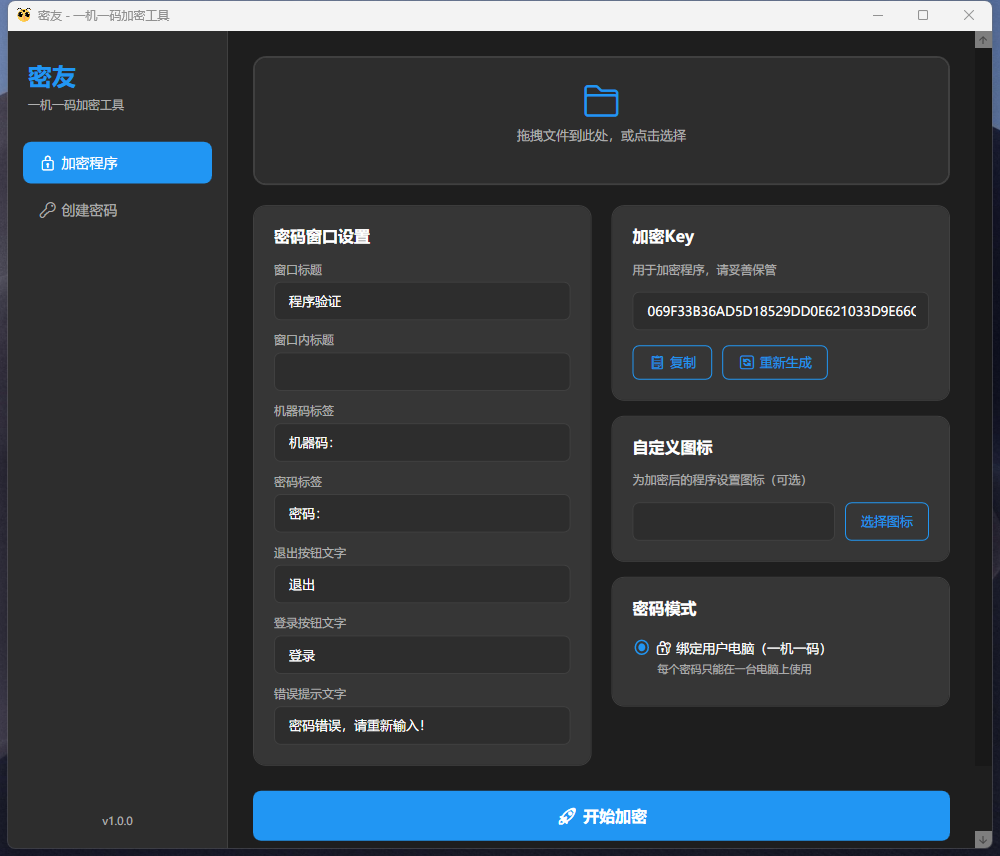
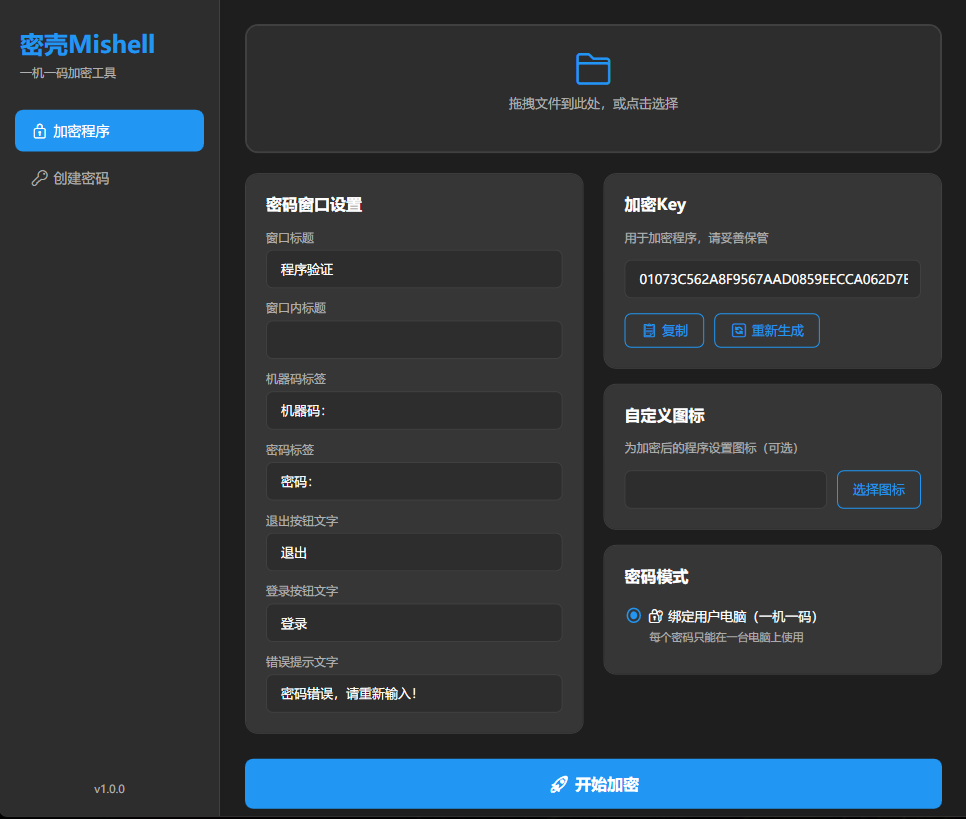
deploy: f9996718c6141f9963f595d4dfaea919b6463a11

diff --git a/miyou/index.html b/miyou/index.html
@@ -1,14 +1,14 @@
-<!DOCTYPE html><html lang="zh-CN" data-astro-cid-o4yhrxpa> <head><!-- Global Metadata --><meta charset="utf-8"><meta name="viewport" content="width=device-width,initial-scale=1"><link rel="icon" type="image/svg+xml" href="/favicon.svg"><link rel="icon" href="/favicon.ico"><link rel="sitemap" href="/sitemap-index.xml"><link rel="alternate" type="application/rss+xml" title="丘小天的炒股生活" href="https://jonyau89.github.io/rss.xml"><meta name="generator" content="Astro v5.17.1"><!-- Font preloads --><link rel="preload" href="/fonts/atkinson-regular.woff" as="font" type="font/woff" crossorigin><link rel="preload" href="/fonts/atkinson-bold.woff" as="font" type="font/woff" crossorigin><!-- Canonical URL --><link rel="canonical" href="https://jonyau89.github.io/qiuxiaotian/miyou/"><!-- Primary Meta Tags --><title>密友 - 程序加密锁 | 为您的软件提供军工级保护</title><meta name="title" content="密友 - 程序加密锁 | 为您的软件提供军工级保护"><meta name="description" content="密友是一款专业的程序加密锁软件，采用硬件绑定技术，一机一码，不受系统更新影响，让您的软件安全无忧。"><!-- Open Graph / Facebook --><meta property="og:type" content="website"><meta property="og:url" content="https://jonyau89.github.io/qiuxiaotian/miyou/"><meta property="og:title" content="密友 - 程序加密锁 | 为您的软件提供军工级保护"><meta property="og:description" content="密友是一款专业的程序加密锁软件，采用硬件绑定技术，一机一码，不受系统更新影响，让您的软件安全无忧。"><meta property="og:image" content="https://jonyau89.github.io/qiuxiaotian/_astro/blog-placeholder-1.Bx0Zcyzv.jpg"><!-- Twitter --><meta property="twitter:card" content="summary_large_image"><meta property="twitter:url" content="https://jonyau89.github.io/qiuxiaotian/miyou/"><meta property="twitter:title" content="密友 - 程序加密锁 | 为您的软件提供军工级保护"><meta property="twitter:description" content="密友是一款专业的程序加密锁软件，采用硬件绑定技术，一机一码，不受系统更新影响，让您的软件安全无忧。"><meta property="twitter:image" content="https://jonyau89.github.io/qiuxiaotian/_astro/blog-placeholder-1.Bx0Zcyzv.jpg"><!-- 百度统计 --><script type="module">(function(){var e=document.createElement("script");e.src="https://hm.baidu.com/hm.js?6bfbccaa79438424195603af62eeee06";var t=document.getElementsByTagName("script")[0];t.parentNode.insertBefore(e,t)})();</script><link rel="stylesheet" href="/qiuxiaotian/_astro/_slug_.D0JwXh8c.css">
-<link rel="stylesheet" href="/qiuxiaotian/_astro/index.ByHazog1.css"></head> <body data-astro-cid-o4yhrxpa> <!-- Header --> <header class="header" data-astro-cid-o4yhrxpa> <div class="header-container" data-astro-cid-o4yhrxpa> <a href="#" class="logo" data-astro-cid-o4yhrxpa> <div class="logo-icon" data-astro-cid-o4yhrxpa>🔒</div> <span data-astro-cid-o4yhrxpa>密友</span> </a> <nav class="nav" data-astro-cid-o4yhrxpa> <a href="#features" data-astro-cid-o4yhrxpa>核心功能</a> <a href="#screenshots" data-astro-cid-o4yhrxpa>软件界面</a> <a href="#how-to-use" data-astro-cid-o4yhrxpa>使用方法</a> <a href="#comparison" data-astro-cid-o4yhrxpa>优势对比</a> <a href="#download" data-astro-cid-o4yhrxpa>下载</a> </nav> <a href="#download" class="header-cta" data-astro-cid-o4yhrxpa>立即下载</a> </div> </header> <!-- Hero Section --> <section class="hero" id="home" data-astro-cid-o4yhrxpa> <div class="hero-bg" data-astro-cid-o4yhrxpa> <div class="gradient-orb orb-1" data-astro-cid-o4yhrxpa></div> <div class="gradient-orb orb-2" data-astro-cid-o4yhrxpa></div> </div> <div class="container" data-astro-cid-o4yhrxpa> <div class="hero-container" data-astro-cid-o4yhrxpa> <div class="hero-content" data-astro-cid-o4yhrxpa> <div class="badge" data-astro-cid-o4yhrxpa> <span data-astro-cid-o4yhrxpa>🔒</span> <span data-astro-cid-o4yhrxpa>专业级程序保护方案</span> </div> <h1 class="hero-title" data-astro-cid-o4yhrxpa> <span class="gradient-text" data-astro-cid-o4yhrxpa>密友</span> <span class="subtitle" data-astro-cid-o4yhrxpa>程序加密锁</span> </h1> <p class="hero-description" data-astro-cid-o4yhrxpa>
+<!DOCTYPE html><html lang="zh-CN" data-astro-cid-o4yhrxpa> <head><!-- Global Metadata --><meta charset="utf-8"><meta name="viewport" content="width=device-width,initial-scale=1"><link rel="icon" type="image/svg+xml" href="/favicon.svg"><link rel="icon" href="/favicon.ico"><link rel="sitemap" href="/sitemap-index.xml"><link rel="alternate" type="application/rss+xml" title="丘小天的炒股生活" href="https://jonyau89.github.io/rss.xml"><meta name="generator" content="Astro v5.17.1"><!-- Font preloads --><link rel="preload" href="/fonts/atkinson-regular.woff" as="font" type="font/woff" crossorigin><link rel="preload" href="/fonts/atkinson-bold.woff" as="font" type="font/woff" crossorigin><!-- Canonical URL --><link rel="canonical" href="https://jonyau89.github.io/qiuxiaotian/miyou/"><!-- Primary Meta Tags --><title>密壳Mishell - 程序加密锁 | 为您的软件提供军工级保护</title><meta name="title" content="密壳Mishell - 程序加密锁 | 为您的软件提供军工级保护"><meta name="description" content="密壳Mishell是一款专业的程序加密锁软件，采用硬件绑定技术，一机一码，不受系统更新影响，让您的软件安全无忧。"><!-- Open Graph / Facebook --><meta property="og:type" content="website"><meta property="og:url" content="https://jonyau89.github.io/qiuxiaotian/miyou/"><meta property="og:title" content="密壳Mishell - 程序加密锁 | 为您的软件提供军工级保护"><meta property="og:description" content="密壳Mishell是一款专业的程序加密锁软件，采用硬件绑定技术，一机一码，不受系统更新影响，让您的软件安全无忧。"><meta property="og:image" content="https://jonyau89.github.io/qiuxiaotian/_astro/blog-placeholder-1.Bx0Zcyzv.jpg"><!-- Twitter --><meta property="twitter:card" content="summary_large_image"><meta property="twitter:url" content="https://jonyau89.github.io/qiuxiaotian/miyou/"><meta property="twitter:title" content="密壳Mishell - 程序加密锁 | 为您的软件提供军工级保护"><meta property="twitter:description" content="密壳Mishell是一款专业的程序加密锁软件，采用硬件绑定技术，一机一码，不受系统更新影响，让您的软件安全无忧。"><meta property="twitter:image" content="https://jonyau89.github.io/qiuxiaotian/_astro/blog-placeholder-1.Bx0Zcyzv.jpg"><!-- 百度统计 --><script type="module">(function(){var e=document.createElement("script");e.src="https://hm.baidu.com/hm.js?6bfbccaa79438424195603af62eeee06";var t=document.getElementsByTagName("script")[0];t.parentNode.insertBefore(e,t)})();</script><link rel="stylesheet" href="/qiuxiaotian/_astro/_slug_.D0JwXh8c.css">
+<link rel="stylesheet" href="/qiuxiaotian/_astro/index.ByHazog1.css"></head> <body data-astro-cid-o4yhrxpa> <!-- Header --> <header class="header" data-astro-cid-o4yhrxpa> <div class="header-container" data-astro-cid-o4yhrxpa> <a href="#" class="logo" data-astro-cid-o4yhrxpa> <div class="logo-icon" data-astro-cid-o4yhrxpa>🔒</div> <span data-astro-cid-o4yhrxpa>密壳Mishell</span> </a> <nav class="nav" data-astro-cid-o4yhrxpa> <a href="#features" data-astro-cid-o4yhrxpa>核心功能</a> <a href="#screenshots" data-astro-cid-o4yhrxpa>软件界面</a> <a href="#how-to-use" data-astro-cid-o4yhrxpa>使用方法</a> <a href="#comparison" data-astro-cid-o4yhrxpa>优势对比</a> <a href="#download" data-astro-cid-o4yhrxpa>下载</a> </nav> <a href="#download" class="header-cta" data-astro-cid-o4yhrxpa>立即下载</a> </div> </header> <!-- Hero Section --> <section class="hero" id="home" data-astro-cid-o4yhrxpa> <div class="hero-bg" data-astro-cid-o4yhrxpa> <div class="gradient-orb orb-1" data-astro-cid-o4yhrxpa></div> <div class="gradient-orb orb-2" data-astro-cid-o4yhrxpa></div> </div> <div class="container" data-astro-cid-o4yhrxpa> <div class="hero-container" data-astro-cid-o4yhrxpa> <div class="hero-content" data-astro-cid-o4yhrxpa> <div class="badge" data-astro-cid-o4yhrxpa> <span data-astro-cid-o4yhrxpa>🔒</span> <span data-astro-cid-o4yhrxpa>专业级程序保护方案</span> </div> <h1 class="hero-title" data-astro-cid-o4yhrxpa> <span class="gradient-text" data-astro-cid-o4yhrxpa>密壳Mishell</span> <span class="subtitle" data-astro-cid-o4yhrxpa>程序加密锁</span> </h1> <p class="hero-description" data-astro-cid-o4yhrxpa>
 为您的软件提供军工级保护。采用硬件绑定技术，一机一码，不受系统更新影响，让您的软件安全无忧。
 </p> <div class="hero-features" data-astro-cid-o4yhrxpa> <div class="feature-item" data-astro-cid-o4yhrxpa> <div class="feature-icon" data-astro-cid-o4yhrxpa>✓</div> <span data-astro-cid-o4yhrxpa>系统更新不影响</span> </div> <div class="feature-item" data-astro-cid-o4yhrxpa> <div class="feature-icon" data-astro-cid-o4yhrxpa>✓</div> <span data-astro-cid-o4yhrxpa>机器码硬件绑定</span> </div> <div class="feature-item" data-astro-cid-o4yhrxpa> <div class="feature-icon" data-astro-cid-o4yhrxpa>✓</div> <span data-astro-cid-o4yhrxpa>一机一码防传播</span> </div> </div> <div class="hero-cta" data-astro-cid-o4yhrxpa> <a href="#download" class="btn btn-primary" data-astro-cid-o4yhrxpa>立即下载</a> <a href="#features" class="btn btn-secondary" data-astro-cid-o4yhrxpa>了解更多</a> </div> </div> <div class="hero-visual" data-astro-cid-o4yhrxpa> <!-- 可以在这里添加产品截图或动画 --> </div> </div> </div> </section> <!-- Features Section --> <section class="features" id="features" data-astro-cid-o4yhrxpa> <div class="container" data-astro-cid-o4yhrxpa> <div class="section-header" data-astro-cid-o4yhrxpa> <span class="section-tag" data-astro-cid-o4yhrxpa>核心功能</span> <h2 class="section-title" data-astro-cid-o4yhrxpa>为您的软件提供<br data-astro-cid-o4yhrxpa><span class="gradient-text" data-astro-cid-o4yhrxpa>全方位保护</span></h2> <p class="section-description" data-astro-cid-o4yhrxpa>
-密友采用先进的加密技术，直接修改程序二进制文件，不依赖后台进程，确保您的软件安全可靠，防止未授权使用和非法传播。
+密壳Mishell采用先进的加密技术，直接修改程序二进制文件，不依赖后台进程，确保您的软件安全可靠，防止未授权使用和非法传播。
 </p> </div> <div class="features-grid" data-astro-cid-o4yhrxpa> <div class="feature-card" data-astro-cid-o4yhrxpa> <div class="card-icon" data-astro-cid-o4yhrxpa>🔐</div> <h3 data-astro-cid-o4yhrxpa>密码保护任何程序</h3> <p data-astro-cid-o4yhrxpa>支持所有 32/64 位 Windows 可执行文件。无论是聊天软件、多媒体播放器还是游戏，都可以轻松加密保护。</p> <ul class="feature-list" data-astro-cid-o4yhrxpa> <li data-astro-cid-o4yhrxpa>支持 .exe 可执行文件</li> <li data-astro-cid-o4yhrxpa>兼容 Windows 7/8/10/11</li> <li data-astro-cid-o4yhrxpa>不影响程序正常运行</li> </ul> </div> <div class="feature-card highlight" data-astro-cid-o4yhrxpa> <div class="card-badge" data-astro-cid-o4yhrxpa>核心优势</div> <div class="card-icon" data-astro-cid-o4yhrxpa>💻</div> <h3 data-astro-cid-o4yhrxpa>硬件绑定授权</h3> <p data-astro-cid-o4yhrxpa>机器码与硬件深度绑定，每台电脑生成专属密码。未授权电脑无法运行受保护的程序，有效防止软件非法传播。</p> <ul class="feature-list" data-astro-cid-o4yhrxpa> <li data-astro-cid-o4yhrxpa>深度硬件绑定技术</li> <li data-astro-cid-o4yhrxpa>一机一码专属授权</li> <li data-astro-cid-o4yhrxpa>防止未授权使用</li> </ul> </div> <div class="feature-card highlight" data-astro-cid-o4yhrxpa> <div class="card-badge" data-astro-cid-o4yhrxpa>核心优势</div> <div class="card-icon" data-astro-cid-o4yhrxpa>🔄</div> <h3 data-astro-cid-o4yhrxpa>系统更新无忧</h3> <p data-astro-cid-o4yhrxpa>不受 Windows 系统更新影响，一次加密永久有效。即使重装系统，已授权的程序仍可正常使用。</p> <ul class="feature-list" data-astro-cid-o4yhrxpa> <li data-astro-cid-o4yhrxpa>不受系统更新影响</li> <li data-astro-cid-o4yhrxpa>重装系统后依然有效</li> <li data-astro-cid-o4yhrxpa>一次加密永久保护</li> </ul> </div> <div class="feature-card" data-astro-cid-o4yhrxpa> <div class="card-icon" data-astro-cid-o4yhrxpa>🛡</div> <h3 data-astro-cid-o4yhrxpa>安全可靠</h3> <p data-astro-cid-o4yhrxpa>直接修改程序二进制文件本身，不依赖后台进程运行。无法通过结束进程或删除启动项来破解保护。</p> <ul class="feature-list" data-astro-cid-o4yhrxpa> <li data-astro-cid-o4yhrxpa>修改二进制文件</li> <li data-astro-cid-o4yhrxpa>不依赖后台进程</li> <li data-astro-cid-o4yhrxpa>无法被简单破解</li> </ul> </div> <div class="feature-card" data-astro-cid-o4yhrxpa> <div class="card-icon" data-astro-cid-o4yhrxpa>⚡</div> <h3 data-astro-cid-o4yhrxpa>简单易用</h3> <p data-astro-cid-o4yhrxpa>三步完成加密，无需专业知识。可视化操作界面，拖拽选择程序，输入密码即可完成加密。</p> <ul class="feature-list" data-astro-cid-o4yhrxpa> <li data-astro-cid-o4yhrxpa>三步完成加密</li> <li data-astro-cid-o4yhrxpa>可视化操作界面</li> <li data-astro-cid-o4yhrxpa>无需专业知识</li> </ul> </div> <div class="feature-card" data-astro-cid-o4yhrxpa> <div class="card-icon" data-astro-cid-o4yhrxpa>📋</div> <h3 data-astro-cid-o4yhrxpa>灵活授权</h3> <p data-astro-cid-o4yhrxpa>支持单机授权、批量授权，还可以设置试用期限。满足不同场景下的软件授权需求。</p> <ul class="feature-list" data-astro-cid-o4yhrxpa> <li data-astro-cid-o4yhrxpa>支持单机授权</li> <li data-astro-cid-o4yhrxpa>支持批量授权</li> <li data-astro-cid-o4yhrxpa>可设置试用期限</li> </ul> </div> </div> </div> </section> <!-- How to Use Section --> <section class="how-to-use" id="how-to-use" data-astro-cid-o4yhrxpa> <div class="container" data-astro-cid-o4yhrxpa> <div class="section-header" data-astro-cid-o4yhrxpa> <span class="section-tag" data-astro-cid-o4yhrxpa>使用方法</span> <h2 class="section-title" data-astro-cid-o4yhrxpa>三步轻松<br data-astro-cid-o4yhrxpa><span class="gradient-text" data-astro-cid-o4yhrxpa>保护您的软件</span></h2> <p class="section-description" data-astro-cid-o4yhrxpa>
 无需专业知识，简单三步即可完成程序加密，让您的软件获得全方位保护。
-</p> </div> <div class="steps-grid" data-astro-cid-o4yhrxpa> <div class="step-card" data-astro-cid-o4yhrxpa> <div class="step-number" data-astro-cid-o4yhrxpa>1</div> <h3 data-astro-cid-o4yhrxpa>选择程序</h3> <p data-astro-cid-o4yhrxpa>拖拽或浏览选择要加密的 EXE 文件，支持单个或批量选择。</p> </div> <div class="step-card" data-astro-cid-o4yhrxpa> <div class="step-number" data-astro-cid-o4yhrxpa>2</div> <h3 data-astro-cid-o4yhrxpa>设置密码</h3> <p data-astro-cid-o4yhrxpa>输入保护密码，选择是否绑定硬件，设置授权期限（可选）。</p> </div> <div class="step-card" data-astro-cid-o4yhrxpa> <div class="step-number" data-astro-cid-o4yhrxpa>3</div> <h3 data-astro-cid-o4yhrxpa>完成加密</h3> <p data-astro-cid-o4yhrxpa>点击加密按钮，生成受保护的程序，分发给您授权的用户。</p> </div> </div> </div> </section> <!-- Comparison Section --> <section class="comparison" id="comparison" data-astro-cid-o4yhrxpa> <div class="container" data-astro-cid-o4yhrxpa> <div class="section-header" data-astro-cid-o4yhrxpa> <span class="section-tag" data-astro-cid-o4yhrxpa>优势对比</span> <h2 class="section-title" data-astro-cid-o4yhrxpa>为什么选择<br data-astro-cid-o4yhrxpa><span class="gradient-text" data-astro-cid-o4yhrxpa>密友</span></h2> <p class="section-description" data-astro-cid-o4yhrxpa>
-相比其他加密软件，密友在硬件绑定深度、系统兼容性和安全性方面都有显著优势。
-</p> </div> <div class="comparison-table" data-astro-cid-o4yhrxpa> <div class="comparison-row comparison-header" data-astro-cid-o4yhrxpa> <div class="comparison-cell" data-astro-cid-o4yhrxpa>特性</div> <div class="comparison-cell highlight-cell" data-astro-cid-o4yhrxpa>密友</div> <div class="comparison-cell" data-astro-cid-o4yhrxpa>其他软件</div> </div> <div class="comparison-row" data-astro-cid-o4yhrxpa> <div class="comparison-cell" data-astro-cid-o4yhrxpa>系统更新影响</div> <div class="comparison-cell highlight-cell" data-astro-cid-o4yhrxpa><span class="check" data-astro-cid-o4yhrxpa>✓ 不受影响</span></div> <div class="comparison-cell" data-astro-cid-o4yhrxpa><span class="cross" data-astro-cid-o4yhrxpa>✗ 经常失效</span></div> </div> <div class="comparison-row" data-astro-cid-o4yhrxpa> <div class="comparison-cell" data-astro-cid-o4yhrxpa>硬件绑定</div> <div class="comparison-cell highlight-cell" data-astro-cid-o4yhrxpa><span class="check" data-astro-cid-o4yhrxpa>✓ 深度绑定</span></div> <div class="comparison-cell" data-astro-cid-o4yhrxpa><span class="cross" data-astro-cid-o4yhrxpa>✗ 简单绑定或无</span></div> </div> <div class="comparison-row" data-astro-cid-o4yhrxpa> <div class="comparison-cell" data-astro-cid-o4yhrxpa>安全性</div> <div class="comparison-cell highlight-cell" data-astro-cid-o4yhrxpa><span class="check" data-astro-cid-o4yhrxpa>✓ 修改二进制</span></div> <div class="comparison-cell" data-astro-cid-o4yhrxpa><span class="cross" data-astro-cid-o4yhrxpa>✗ 后台进程保护</span></div> </div> <div class="comparison-row" data-astro-cid-o4yhrxpa> <div class="comparison-cell" data-astro-cid-o4yhrxpa>稳定性</div> <div class="comparison-cell highlight-cell" data-astro-cid-o4yhrxpa><span class="check" data-astro-cid-o4yhrxpa>✓ 极高</span></div> <div class="comparison-cell" data-astro-cid-o4yhrxpa><span class="cross" data-astro-cid-o4yhrxpa>✗ 一般</span></div> </div> <div class="comparison-row" data-astro-cid-o4yhrxpa> <div class="comparison-cell" data-astro-cid-o4yhrxpa>重装系统后</div> <div class="comparison-cell highlight-cell" data-astro-cid-o4yhrxpa><span class="check" data-astro-cid-o4yhrxpa>✓ 依然有效</span></div> <div class="comparison-cell" data-astro-cid-o4yhrxpa><span class="cross" data-astro-cid-o4yhrxpa>✗ 需要重新授权</span></div> </div> </div> </div> </section> <!-- Screenshots Section --> <section class="screenshots" id="screenshots" data-astro-cid-o4yhrxpa> <div class="container" data-astro-cid-o4yhrxpa> <div class="section-header" data-astro-cid-o4yhrxpa> <span class="section-tag" data-astro-cid-o4yhrxpa>软件界面</span> <h2 class="section-title" data-astro-cid-o4yhrxpa>简洁直观的<br data-astro-cid-o4yhrxpa><span class="gradient-text" data-astro-cid-o4yhrxpa>操作界面</span></h2> <p class="section-description" data-astro-cid-o4yhrxpa>
-密友采用现代化的深色主题设计，界面简洁直观，无需专业知识即可轻松上手。
-</p> </div> <div class="screenshots-grid" data-astro-cid-o4yhrxpa> <div class="screenshot-card" data-astro-cid-o4yhrxpa> <div class="screenshot-header" data-astro-cid-o4yhrxpa> <div class="screenshot-dots" data-astro-cid-o4yhrxpa> <span data-astro-cid-o4yhrxpa></span> <span data-astro-cid-o4yhrxpa></span> <span data-astro-cid-o4yhrxpa></span> </div> <span class="screenshot-title" data-astro-cid-o4yhrxpa>加密程序</span> </div> <img src="/qiuxiaotian/images/miyou/screenshot1.png" alt="密友软件界面 - 加密程序" class="screenshot-image" data-astro-cid-o4yhrxpa> <div class="screenshot-caption" data-astro-cid-o4yhrxpa> <h4 data-astro-cid-o4yhrxpa>加密程序</h4> <p data-astro-cid-o4yhrxpa>拖拽文件即可开始加密，支持自定义密码窗口和硬件绑定</p> </div> </div> <div class="screenshot-card" data-astro-cid-o4yhrxpa> <div class="screenshot-header" data-astro-cid-o4yhrxpa> <div class="screenshot-dots" data-astro-cid-o4yhrxpa> <span data-astro-cid-o4yhrxpa></span> <span data-astro-cid-o4yhrxpa></span> <span data-astro-cid-o4yhrxpa></span> </div> <span class="screenshot-title" data-astro-cid-o4yhrxpa>创建密码</span> </div> <img src="/qiuxiaotian/images/miyou/screenshot2.png" alt="密友软件界面 - 创建密码" class="screenshot-image" data-astro-cid-o4yhrxpa> <div class="screenshot-caption" data-astro-cid-o4yhrxpa> <h4 data-astro-cid-o4yhrxpa>创建密码</h4> <p data-astro-cid-o4yhrxpa>输入机器码生成专属密码，支持运行次数和有效期限制</p> </div> </div> </div> </div> </section> <!-- CTA Section --> <section class="cta-section" id="download" data-astro-cid-o4yhrxpa> <div class="container" data-astro-cid-o4yhrxpa> <div class="cta-content" data-astro-cid-o4yhrxpa> <span class="section-tag" data-astro-cid-o4yhrxpa>立即开始</span> <h2 class="cta-title" data-astro-cid-o4yhrxpa>立即保护您的<span class="gradient-text" data-astro-cid-o4yhrxpa>软件</span></h2> <p class="cta-description" data-astro-cid-o4yhrxpa>
-免费下载密友，开始试用。为您的软件提供军工级保护，防止未授权使用和非法传播。
-</p> <div class="hero-cta" style="justify-content: center;" data-astro-cid-o4yhrxpa> <a href="#" class="btn btn-primary" style="font-size: 18px; padding: 20px 48px;" data-astro-cid-o4yhrxpa>免费下载</a> </div> <div class="system-requirements" data-astro-cid-o4yhrxpa> <h4 data-astro-cid-o4yhrxpa>系统要求</h4> <ul data-astro-cid-o4yhrxpa> <li data-astro-cid-o4yhrxpa>✓ Windows 7/8/10/11</li> <li data-astro-cid-o4yhrxpa>✓ 32/64 位系统</li> <li data-astro-cid-o4yhrxpa>✓ 2GB 内存</li> <li data-astro-cid-o4yhrxpa>✓ 50MB 磁盘空间</li> </ul> </div> </div> </div> </section> <!-- Footer --> <footer class="footer" data-astro-cid-o4yhrxpa> <div class="container" data-astro-cid-o4yhrxpa> <div class="footer-content" data-astro-cid-o4yhrxpa> <div class="footer-brand" data-astro-cid-o4yhrxpa> <a href="#" class="logo" data-astro-cid-o4yhrxpa> <div class="logo-icon" data-astro-cid-o4yhrxpa>🔒</div> <span data-astro-cid-o4yhrxpa>密友</span> </a> <p data-astro-cid-o4yhrxpa>密友是一款专业的程序加密锁软件，采用硬件绑定技术，为您的软件提供军工级保护。</p> </div> <div class="footer-links" data-astro-cid-o4yhrxpa> <h4 data-astro-cid-o4yhrxpa>产品</h4> <ul data-astro-cid-o4yhrxpa> <li data-astro-cid-o4yhrxpa><a href="#features" data-astro-cid-o4yhrxpa>核心功能</a></li> <li data-astro-cid-o4yhrxpa><a href="#how-to-use" data-astro-cid-o4yhrxpa>使用方法</a></li> <li data-astro-cid-o4yhrxpa><a href="#download" data-astro-cid-o4yhrxpa>下载</a></li> </ul> </div> <div class="footer-links" data-astro-cid-o4yhrxpa> <h4 data-astro-cid-o4yhrxpa>支持</h4> <ul data-astro-cid-o4yhrxpa> <li data-astro-cid-o4yhrxpa><a href="#" data-astro-cid-o4yhrxpa>帮助中心</a></li> <li data-astro-cid-o4yhrxpa><a href="#" data-astro-cid-o4yhrxpa>联系我们</a></li> <li data-astro-cid-o4yhrxpa><a href="#" data-astro-cid-o4yhrxpa>常见问题</a></li> </ul> </div> <div class="footer-links" data-astro-cid-o4yhrxpa> <h4 data-astro-cid-o4yhrxpa>关于</h4> <ul data-astro-cid-o4yhrxpa> <li data-astro-cid-o4yhrxpa><a href="#" data-astro-cid-o4yhrxpa>关于我们</a></li> <li data-astro-cid-o4yhrxpa><a href="#" data-astro-cid-o4yhrxpa>隐私政策</a></li> <li data-astro-cid-o4yhrxpa><a href="#" data-astro-cid-o4yhrxpa>使用条款</a></li> </ul> </div> </div> <div class="footer-bottom" data-astro-cid-o4yhrxpa> <p data-astro-cid-o4yhrxpa>&copy; 2026 密友. 保留所有权利。</p> </div> </div> </footer> <script type="module">document.querySelectorAll('a[href^="#"]').forEach(t=>{t.addEventListener("click",function(r){r.preventDefault();const e=document.querySelector(this.getAttribute("href"));e&&e.scrollIntoView({behavior:"smooth",block:"start"})})});</script> </body> </html>
+</p> </div> <div class="steps-grid" data-astro-cid-o4yhrxpa> <div class="step-card" data-astro-cid-o4yhrxpa> <div class="step-number" data-astro-cid-o4yhrxpa>1</div> <h3 data-astro-cid-o4yhrxpa>选择程序</h3> <p data-astro-cid-o4yhrxpa>拖拽或浏览选择要加密的 EXE 文件，支持单个或批量选择。</p> </div> <div class="step-card" data-astro-cid-o4yhrxpa> <div class="step-number" data-astro-cid-o4yhrxpa>2</div> <h3 data-astro-cid-o4yhrxpa>设置密码</h3> <p data-astro-cid-o4yhrxpa>输入保护密码，选择是否绑定硬件，设置授权期限（可选）。</p> </div> <div class="step-card" data-astro-cid-o4yhrxpa> <div class="step-number" data-astro-cid-o4yhrxpa>3</div> <h3 data-astro-cid-o4yhrxpa>完成加密</h3> <p data-astro-cid-o4yhrxpa>点击加密按钮，生成受保护的程序，分发给您授权的用户。</p> </div> </div> </div> </section> <!-- Comparison Section --> <section class="comparison" id="comparison" data-astro-cid-o4yhrxpa> <div class="container" data-astro-cid-o4yhrxpa> <div class="section-header" data-astro-cid-o4yhrxpa> <span class="section-tag" data-astro-cid-o4yhrxpa>优势对比</span> <h2 class="section-title" data-astro-cid-o4yhrxpa>为什么选择<br data-astro-cid-o4yhrxpa><span class="gradient-text" data-astro-cid-o4yhrxpa>密壳Mishell</span></h2> <p class="section-description" data-astro-cid-o4yhrxpa>
+相比其他加密软件，密壳Mishell在硬件绑定深度、系统兼容性和安全性方面都有显著优势。
+</p> </div> <div class="comparison-table" data-astro-cid-o4yhrxpa> <div class="comparison-row comparison-header" data-astro-cid-o4yhrxpa> <div class="comparison-cell" data-astro-cid-o4yhrxpa>特性</div> <div class="comparison-cell highlight-cell" data-astro-cid-o4yhrxpa>密壳Mishell</div> <div class="comparison-cell" data-astro-cid-o4yhrxpa>其他软件</div> </div> <div class="comparison-row" data-astro-cid-o4yhrxpa> <div class="comparison-cell" data-astro-cid-o4yhrxpa>系统更新影响</div> <div class="comparison-cell highlight-cell" data-astro-cid-o4yhrxpa><span class="check" data-astro-cid-o4yhrxpa>✓ 不受影响</span></div> <div class="comparison-cell" data-astro-cid-o4yhrxpa><span class="cross" data-astro-cid-o4yhrxpa>✗ 经常失效</span></div> </div> <div class="comparison-row" data-astro-cid-o4yhrxpa> <div class="comparison-cell" data-astro-cid-o4yhrxpa>硬件绑定</div> <div class="comparison-cell highlight-cell" data-astro-cid-o4yhrxpa><span class="check" data-astro-cid-o4yhrxpa>✓ 深度绑定</span></div> <div class="comparison-cell" data-astro-cid-o4yhrxpa><span class="cross" data-astro-cid-o4yhrxpa>✗ 简单绑定或无</span></div> </div> <div class="comparison-row" data-astro-cid-o4yhrxpa> <div class="comparison-cell" data-astro-cid-o4yhrxpa>安全性</div> <div class="comparison-cell highlight-cell" data-astro-cid-o4yhrxpa><span class="check" data-astro-cid-o4yhrxpa>✓ 修改二进制</span></div> <div class="comparison-cell" data-astro-cid-o4yhrxpa><span class="cross" data-astro-cid-o4yhrxpa>✗ 后台进程保护</span></div> </div> <div class="comparison-row" data-astro-cid-o4yhrxpa> <div class="comparison-cell" data-astro-cid-o4yhrxpa>稳定性</div> <div class="comparison-cell highlight-cell" data-astro-cid-o4yhrxpa><span class="check" data-astro-cid-o4yhrxpa>✓ 极高</span></div> <div class="comparison-cell" data-astro-cid-o4yhrxpa><span class="cross" data-astro-cid-o4yhrxpa>✗ 一般</span></div> </div> <div class="comparison-row" data-astro-cid-o4yhrxpa> <div class="comparison-cell" data-astro-cid-o4yhrxpa>重装系统后</div> <div class="comparison-cell highlight-cell" data-astro-cid-o4yhrxpa><span class="check" data-astro-cid-o4yhrxpa>✓ 依然有效</span></div> <div class="comparison-cell" data-astro-cid-o4yhrxpa><span class="cross" data-astro-cid-o4yhrxpa>✗ 需要重新授权</span></div> </div> </div> </div> </section> <!-- Screenshots Section --> <section class="screenshots" id="screenshots" data-astro-cid-o4yhrxpa> <div class="container" data-astro-cid-o4yhrxpa> <div class="section-header" data-astro-cid-o4yhrxpa> <span class="section-tag" data-astro-cid-o4yhrxpa>软件界面</span> <h2 class="section-title" data-astro-cid-o4yhrxpa>简洁直观的<br data-astro-cid-o4yhrxpa><span class="gradient-text" data-astro-cid-o4yhrxpa>操作界面</span></h2> <p class="section-description" data-astro-cid-o4yhrxpa>
+密壳Mishell采用现代化的深色主题设计，界面简洁直观，无需专业知识即可轻松上手。
+</p> </div> <div class="screenshots-grid" data-astro-cid-o4yhrxpa> <div class="screenshot-card" data-astro-cid-o4yhrxpa> <div class="screenshot-header" data-astro-cid-o4yhrxpa> <div class="screenshot-dots" data-astro-cid-o4yhrxpa> <span data-astro-cid-o4yhrxpa></span> <span data-astro-cid-o4yhrxpa></span> <span data-astro-cid-o4yhrxpa></span> </div> <span class="screenshot-title" data-astro-cid-o4yhrxpa>加密程序</span> </div> <img src="/qiuxiaotian/images/miyou/screenshot1.png" alt="密壳Mishell软件界面 - 加密程序" class="screenshot-image" data-astro-cid-o4yhrxpa> <div class="screenshot-caption" data-astro-cid-o4yhrxpa> <h4 data-astro-cid-o4yhrxpa>加密程序</h4> <p data-astro-cid-o4yhrxpa>拖拽文件即可开始加密，支持自定义密码窗口和硬件绑定</p> </div> </div> <div class="screenshot-card" data-astro-cid-o4yhrxpa> <div class="screenshot-header" data-astro-cid-o4yhrxpa> <div class="screenshot-dots" data-astro-cid-o4yhrxpa> <span data-astro-cid-o4yhrxpa></span> <span data-astro-cid-o4yhrxpa></span> <span data-astro-cid-o4yhrxpa></span> </div> <span class="screenshot-title" data-astro-cid-o4yhrxpa>创建密码</span> </div> <img src="/qiuxiaotian/images/miyou/screenshot2.png" alt="密壳Mishell软件界面 - 创建密码" class="screenshot-image" data-astro-cid-o4yhrxpa> <div class="screenshot-caption" data-astro-cid-o4yhrxpa> <h4 data-astro-cid-o4yhrxpa>创建密码</h4> <p data-astro-cid-o4yhrxpa>输入机器码生成专属密码，支持运行次数和有效期限制</p> </div> </div> </div> </div> </section> <!-- CTA Section --> <section class="cta-section" id="download" data-astro-cid-o4yhrxpa> <div class="container" data-astro-cid-o4yhrxpa> <div class="cta-content" data-astro-cid-o4yhrxpa> <span class="section-tag" data-astro-cid-o4yhrxpa>立即开始</span> <h2 class="cta-title" data-astro-cid-o4yhrxpa>立即保护您的<span class="gradient-text" data-astro-cid-o4yhrxpa>软件</span></h2> <p class="cta-description" data-astro-cid-o4yhrxpa>
+免费下载密壳Mishell，开始试用。为您的软件提供军工级保护，防止未授权使用和非法传播。
+</p> <div class="hero-cta" style="justify-content: center;" data-astro-cid-o4yhrxpa> <a href="#" class="btn btn-primary" style="font-size: 18px; padding: 20px 48px;" data-astro-cid-o4yhrxpa>免费下载</a> </div> <div class="system-requirements" data-astro-cid-o4yhrxpa> <h4 data-astro-cid-o4yhrxpa>系统要求</h4> <ul data-astro-cid-o4yhrxpa> <li data-astro-cid-o4yhrxpa>✓ Windows 7/8/10/11</li> <li data-astro-cid-o4yhrxpa>✓ 32/64 位系统</li> <li data-astro-cid-o4yhrxpa>✓ 2GB 内存</li> <li data-astro-cid-o4yhrxpa>✓ 50MB 磁盘空间</li> </ul> </div> </div> </div> </section> <!-- Footer --> <footer class="footer" data-astro-cid-o4yhrxpa> <div class="container" data-astro-cid-o4yhrxpa> <div class="footer-content" data-astro-cid-o4yhrxpa> <div class="footer-brand" data-astro-cid-o4yhrxpa> <a href="#" class="logo" data-astro-cid-o4yhrxpa> <div class="logo-icon" data-astro-cid-o4yhrxpa>🔒</div> <span data-astro-cid-o4yhrxpa>密壳Mishell</span> </a> <p data-astro-cid-o4yhrxpa>密壳Mishell是一款专业的程序加密锁软件，采用硬件绑定技术，为您的软件提供军工级保护。</p> </div> <div class="footer-links" data-astro-cid-o4yhrxpa> <h4 data-astro-cid-o4yhrxpa>产品</h4> <ul data-astro-cid-o4yhrxpa> <li data-astro-cid-o4yhrxpa><a href="#features" data-astro-cid-o4yhrxpa>核心功能</a></li> <li data-astro-cid-o4yhrxpa><a href="#how-to-use" data-astro-cid-o4yhrxpa>使用方法</a></li> <li data-astro-cid-o4yhrxpa><a href="#download" data-astro-cid-o4yhrxpa>下载</a></li> </ul> </div> <div class="footer-links" data-astro-cid-o4yhrxpa> <h4 data-astro-cid-o4yhrxpa>支持</h4> <ul data-astro-cid-o4yhrxpa> <li data-astro-cid-o4yhrxpa><a href="#" data-astro-cid-o4yhrxpa>帮助中心</a></li> <li data-astro-cid-o4yhrxpa><a href="#" data-astro-cid-o4yhrxpa>联系我们</a></li> <li data-astro-cid-o4yhrxpa><a href="#" data-astro-cid-o4yhrxpa>常见问题</a></li> </ul> </div> <div class="footer-links" data-astro-cid-o4yhrxpa> <h4 data-astro-cid-o4yhrxpa>关于</h4> <ul data-astro-cid-o4yhrxpa> <li data-astro-cid-o4yhrxpa><a href="#" data-astro-cid-o4yhrxpa>关于我们</a></li> <li data-astro-cid-o4yhrxpa><a href="#" data-astro-cid-o4yhrxpa>隐私政策</a></li> <li data-astro-cid-o4yhrxpa><a href="#" data-astro-cid-o4yhrxpa>使用条款</a></li> </ul> </div> </div> <div class="footer-bottom" data-astro-cid-o4yhrxpa> <p data-astro-cid-o4yhrxpa>&copy; 2026 密壳Mishell. 保留所有权利。</p> </div> </div> </footer> <script type="module">document.querySelectorAll('a[href^="#"]').forEach(t=>{t.addEventListener("click",function(r){r.preventDefault();const e=document.querySelector(this.getAttribute("href"));e&&e.scrollIntoView({behavior:"smooth",block:"start"})})});</script> </body> </html>
